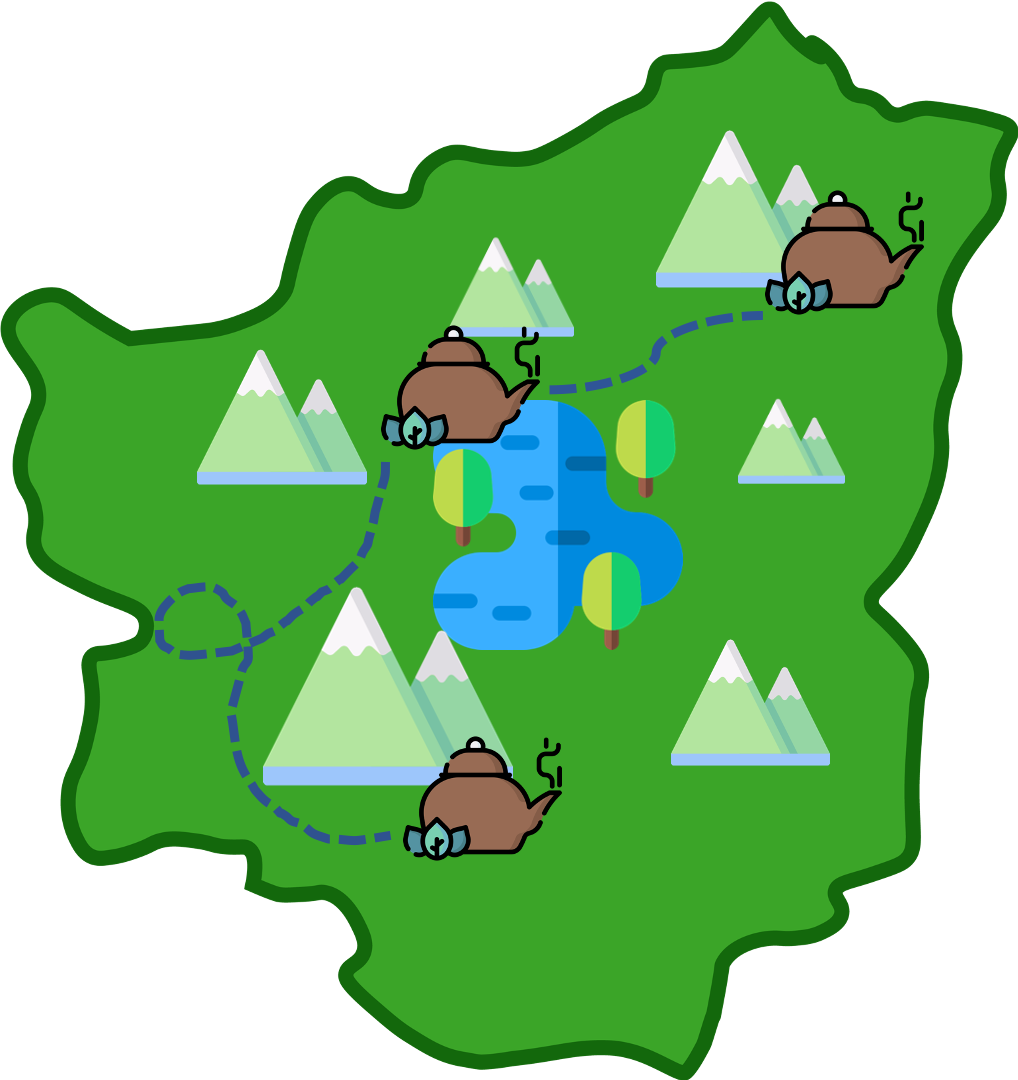
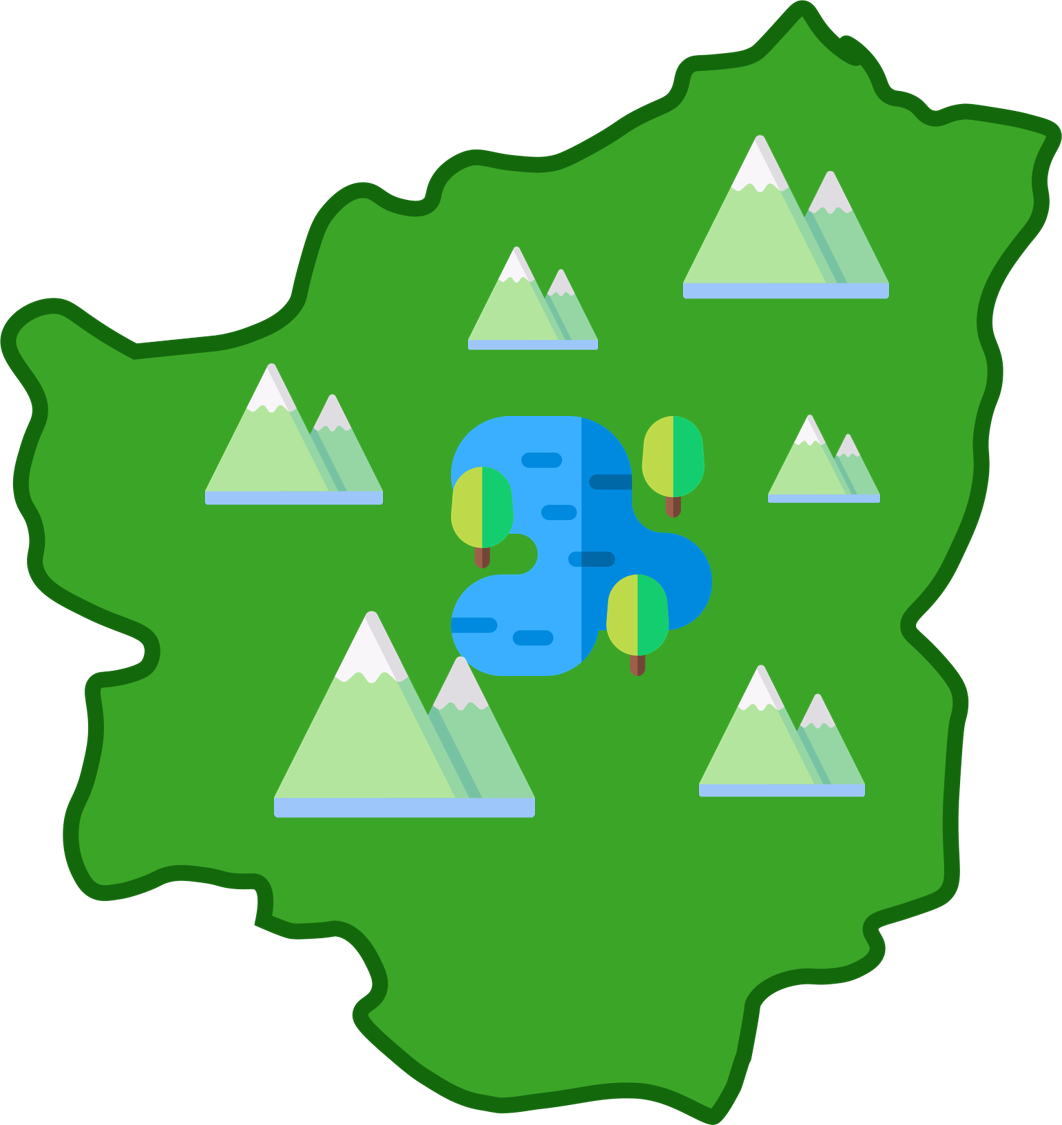
add map miaoli taichung nantou png and fix collect's name and game_home.html

diff --git a/game_home.html b/game_home.html
@@ -69,42 +69,5 @@
         <i class="fab fa-share my-float"><img src="photo/help.png" width="70%"></i>
         </a>
     </div>
-      <div class="fabs" onclick="toggleBtn()">
-        <div class="action">
-          <i class="fas" id="add"><img src="photo/settings.png" width="110%"></i>
-          <i class="fas" id="remove" style="display: none"><img src="photo/settings.png" width="110%"></i>
-        </div>
-  
-        <div class="btns">
-          <a href="personalprofile.html" class="btn"><i class="fab "><img src="photo/user.png" title="個人簡介" width="95%"></i></a>
-          <a href="history.html" class="btn"><i class="fab "><img src="photo/record.png" title="歷史紀錄" width="95%"></i></a>
-          <a href="score.html" class="btn"><i class="fab "><img src="photo/analysis.png" title="學習歷程" width="95%"></i></a>
-        </div>
-    <script>
-       function toggleBtn() {
-      const Btns = document.querySelector(".btns");
-      const add = document.getElementById("add");
-      const remove = document.getElementById("remove");
-      const btn = document.querySelector(".btns").querySelectorAll("a");
-      Btns.classList.toggle("open");
-      if (Btns.classList.contains("open")) {
-        remove.style.display = "block";
-        add.style.display = "none";
-        btn.forEach((e, i) => {
-          setTimeout(() => {
-            bottom = 65 * i;
-            e.style.bottom = bottom + "px";
-            console.log(e);
-          }, 100 * i);
-        });
-      } else {
-        add.style.display = "block";
-        remove.style.display = "none";
-        btn.forEach((e, i) => {
-          e.style.bottom = "0px";
-        });
-      }
-    }
-    </script>
   </body>
 </html>

diff --git a/collect.html b/collect.html
@@ -11,7 +11,7 @@
 </head>
 <body class="style" background="photo/background.png">
   <div class="head">
-    <a>收藏模組</a>
+    <a>我的最愛</a>
     <body onload="ShowTime()">
       <div id="today"></div>
       <br>
@@ -63,7 +63,7 @@ document.getElementById('today').innerHTML = yyyy + "/" + MM + "/" + dd;
         <a href="#" class="btn"><i class="fab "><img src="photo/analysis.png" title="學習歷程" width="95%"></i></a>
       </div>
   <div>
-    <a href="game_collect.html" class="returnfloat" id="menu-share">
+    <a href="test1.html" class="returnfloat" id="menu-share">
       <i class="fab fa-share return-float"><img src="photo/return.png" ></i>
       </a>
   </div>
